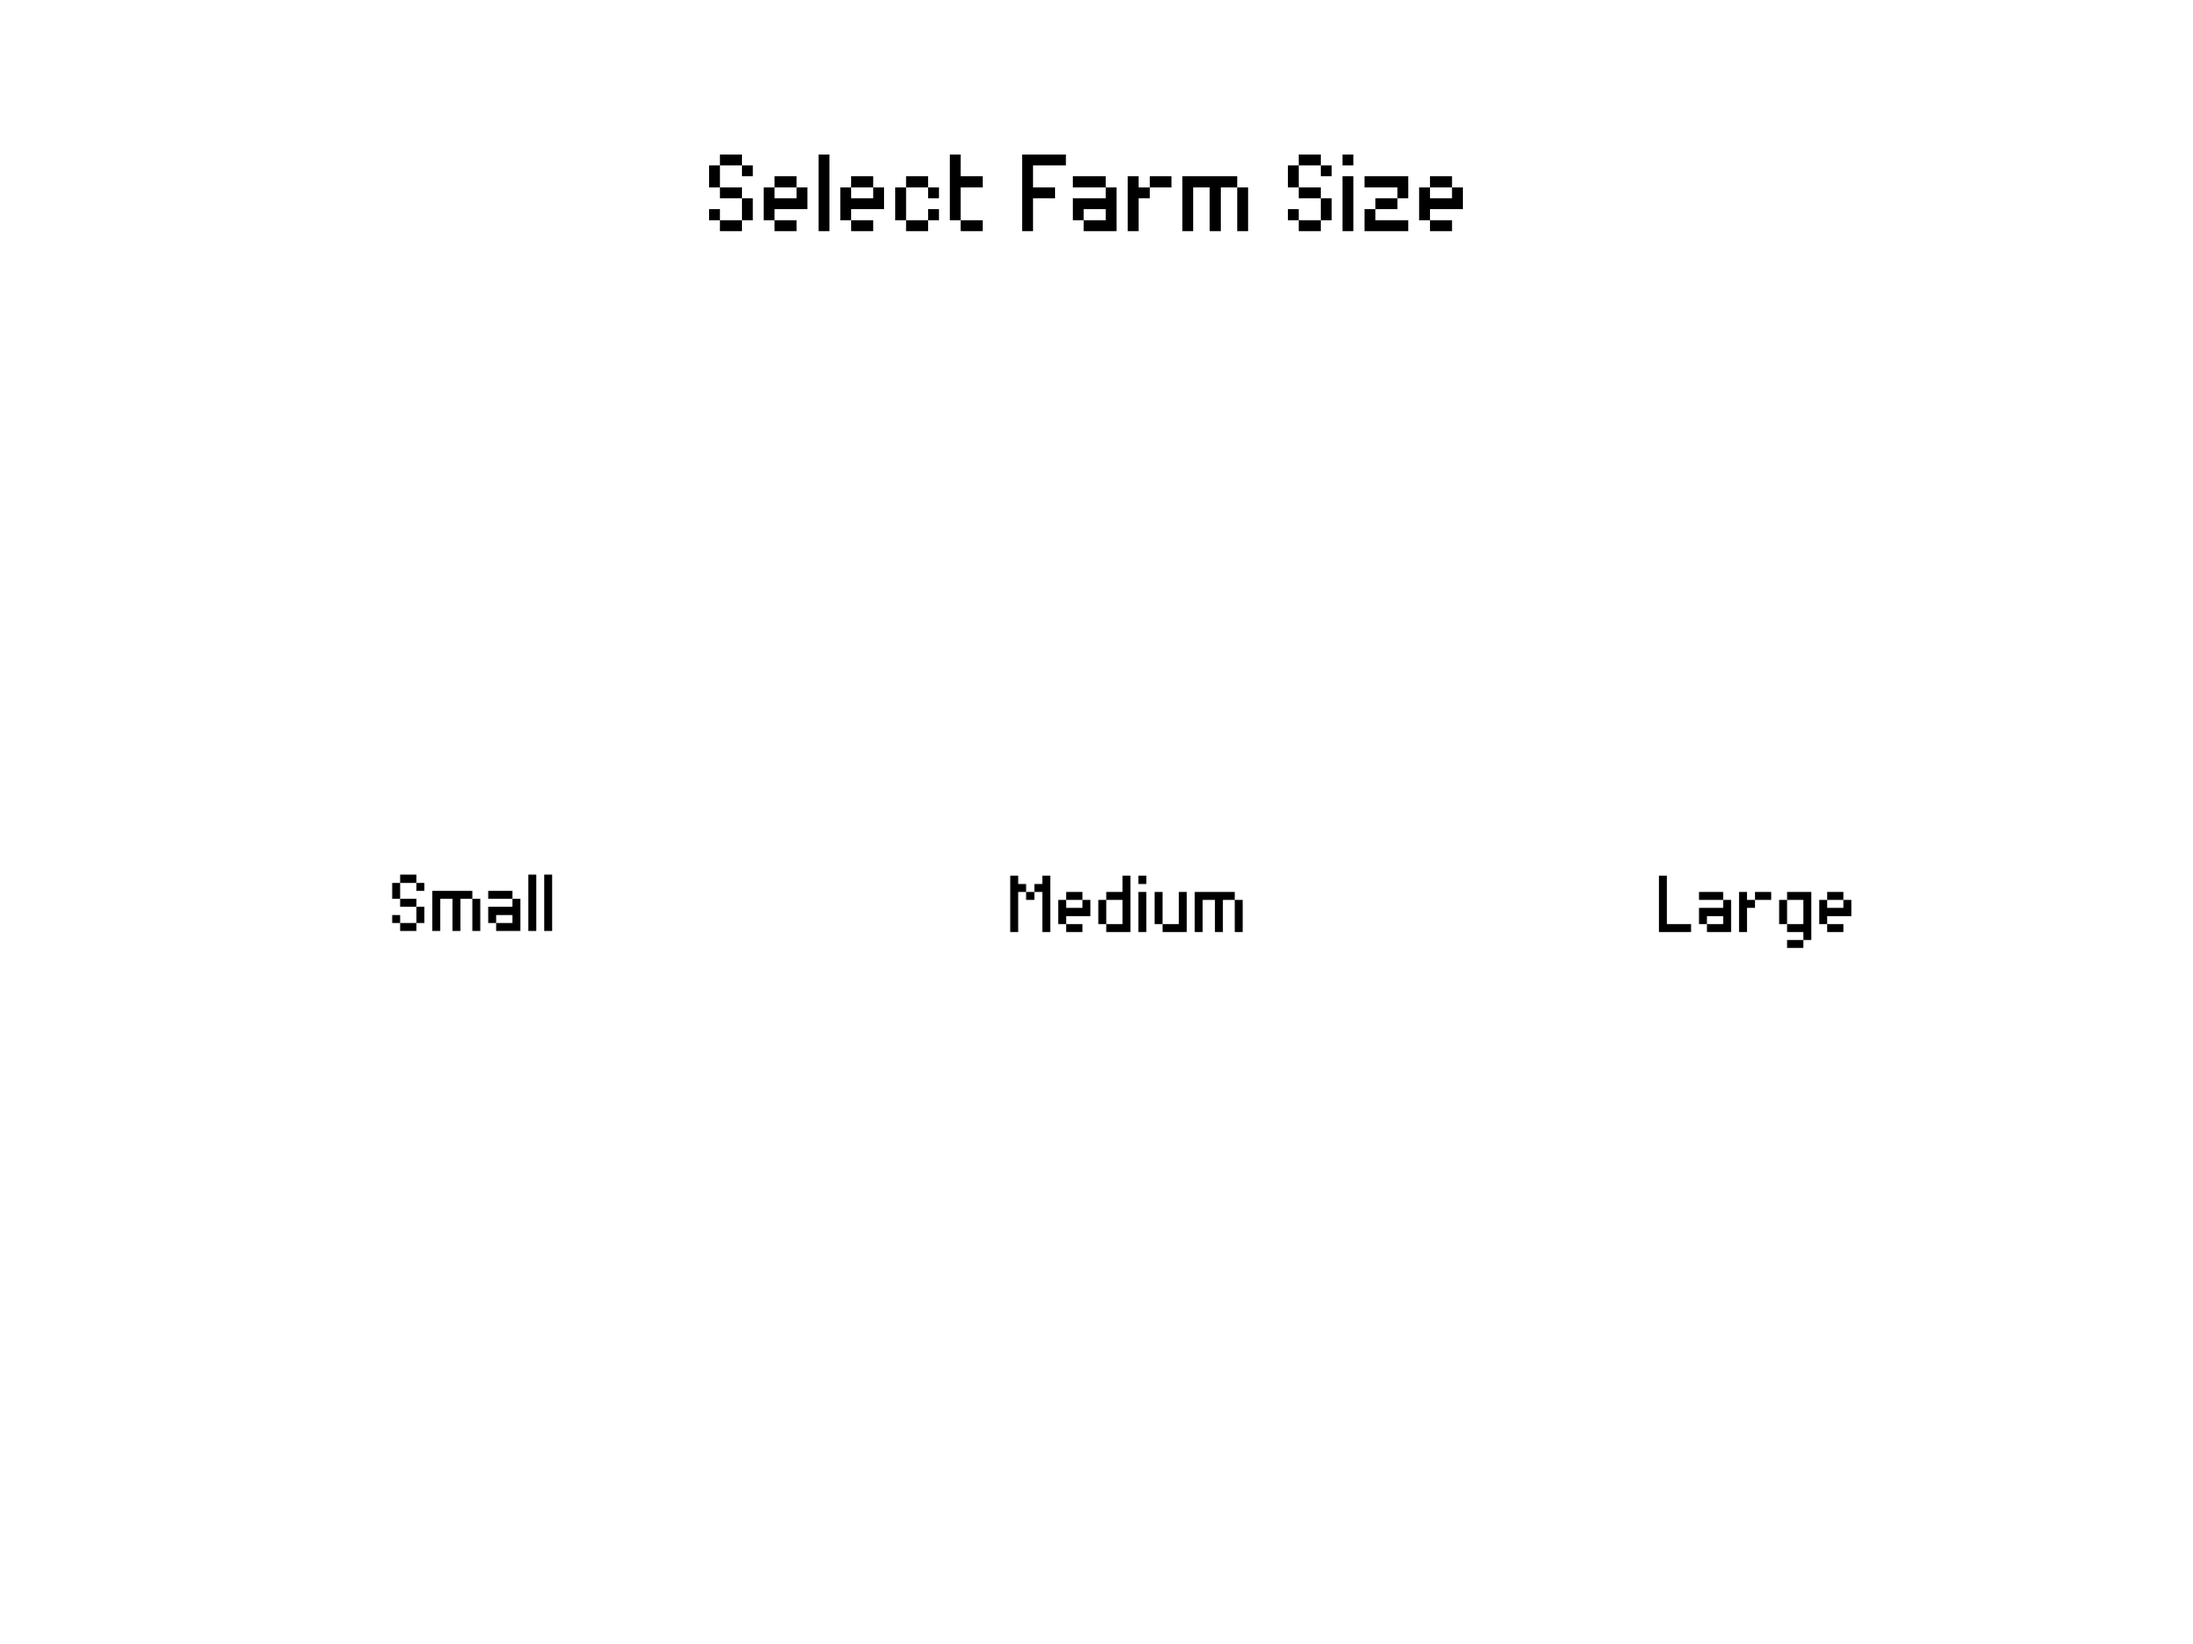
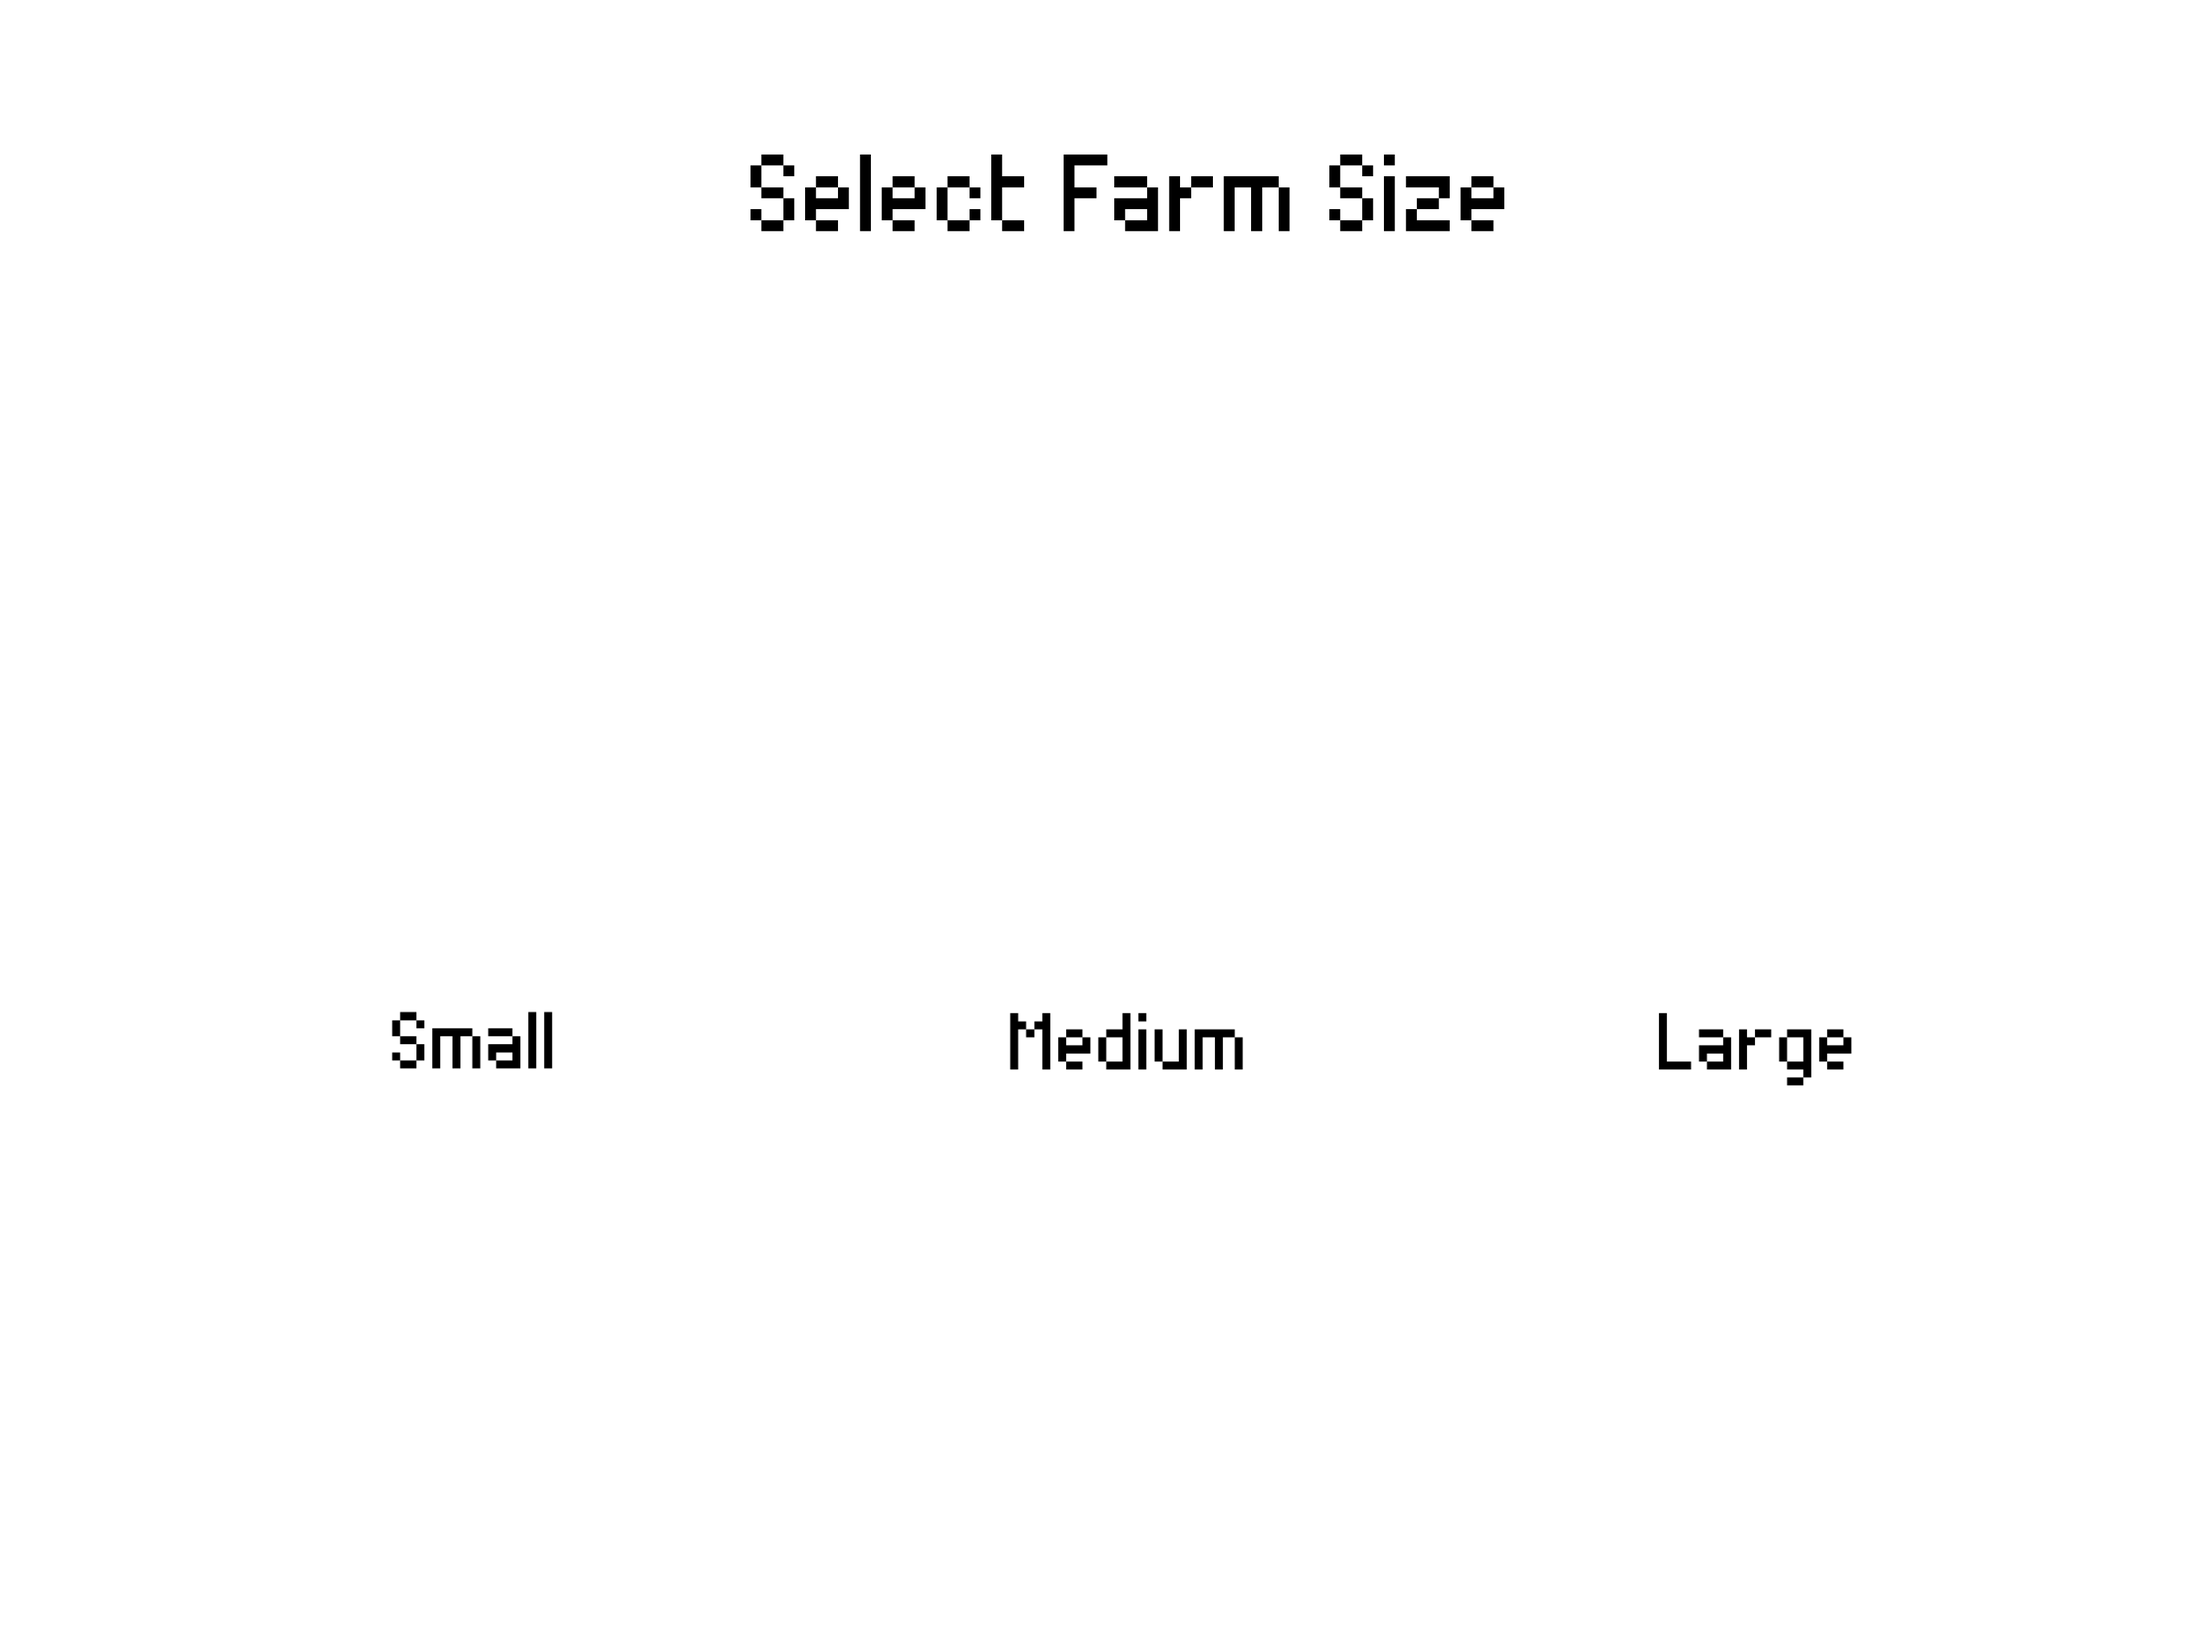
resize plot size screen

diff --git a/src/scene/roomSizeScene.js b/src/scene/roomSizeScene.js
@@ -20,9 +20,9 @@ var roomSizeScene = new Phaser.Class({
     
     create: function(){
         this.add.image(0, 0, 'bg').setOrigin(0, 0); 
-        this.add.image(0, 0, 'text').setOrigin(0, 0).setScale(0.3);
-        this.smol = this.add.sprite(240,300, 'smol').setInteractive().setScale(1.5);
-        this.medium = this.add.sprite(580,300, 'medium').setInteractive().setScale(1.5);
+        this.add.image(0, 0, 'text').setOrigin(0, 0).setScale(0.32);
+        this.smol = this.add.sprite(240,300, 'smol').setInteractive().setScale(1.3);
+        this.medium = this.add.sprite(580,300, 'medium').setInteractive().setScale(1.4);
         this.large = this.add.sprite(920,300, 'large').setInteractive().setScale(1.5);
 
         this.smol.on('pointerdown', function(pointer){roomNumber = 0;}, this);
